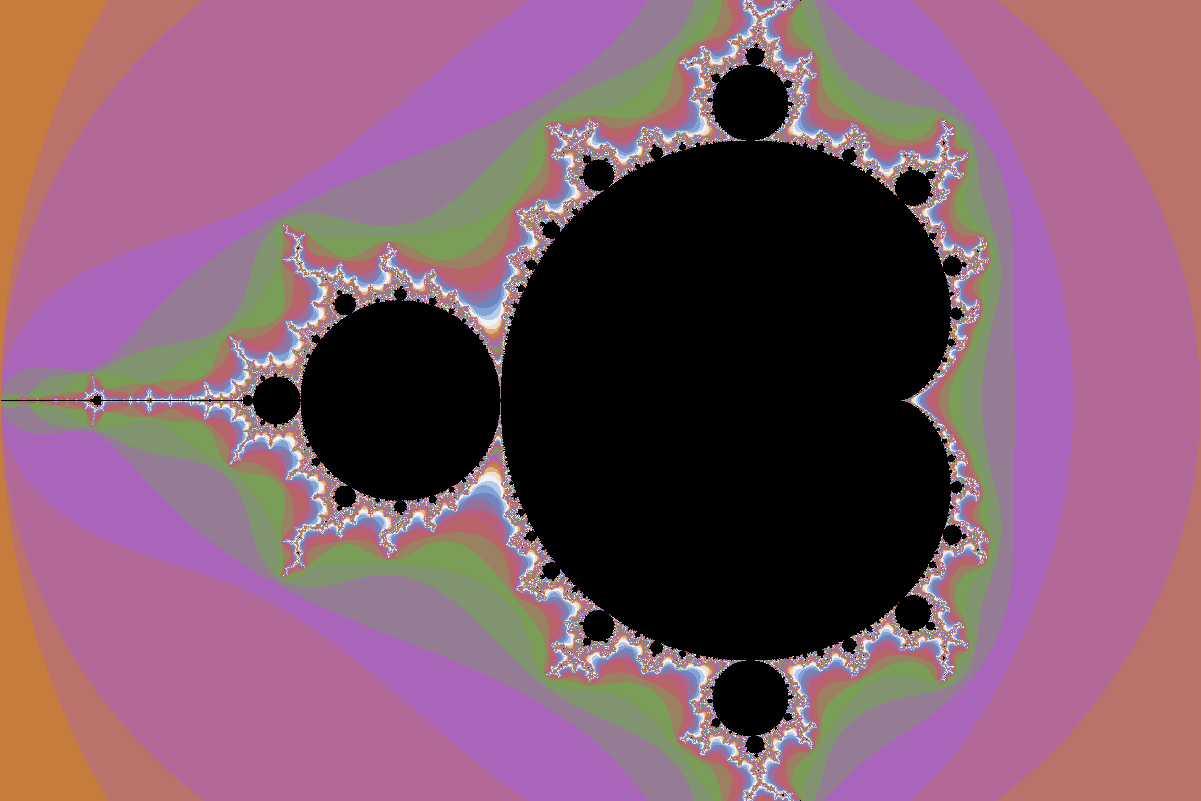
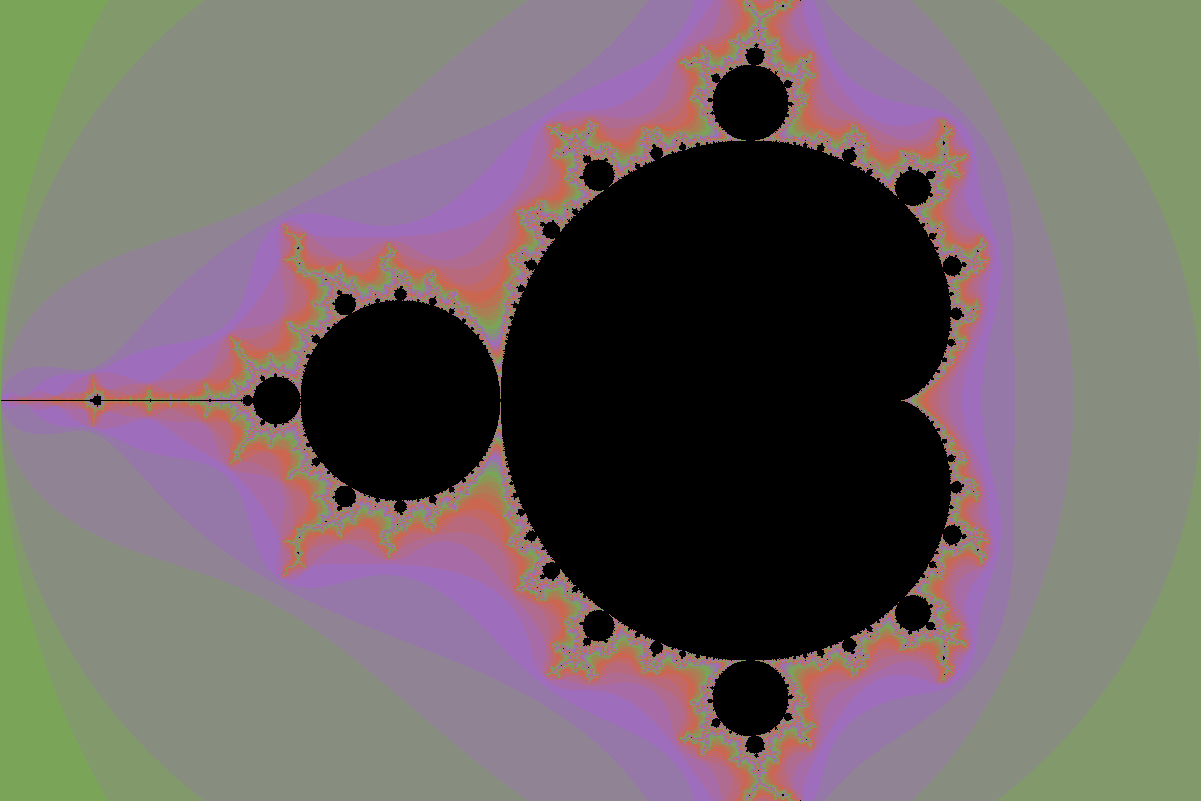
04

diff --git a/04/work/mandelbrot.py b/04/work/mandelbrot.py
@@ -1,0 +1,100 @@
+# mandelbrot set image generator
+# 
+# cameron f abrams 2018
+# cfa22@drexel.edu
+#
+from PIL import Image, ImageDraw, ImageFont
+from math import log
+import sys
+
+EPSILON = sys.float_info.epsilon  # smallest possible difference
+def convert_to_rgb_cyclic ( minval, maxval, val, colors ):
+    fi = float(val-minval) / float(maxval-minval) * (len(colors)+1)
+    i = int(fi)
+    f = fi - i
+    if f < EPSILON:
+        return colors[i%len(colors)]
+    else:
+        (r1, g1, b1), (r2, g2, b2) = colors[i%len(colors)], colors[(i+1)%len(colors)]
+        return int(r1 + f*(r2-r1)), int(g1 + f*(g2-g1)), int(b1 + f*(b2-b1))
+
+
+def c2i ( pt, cll, cur, Lx, Ly ):
+   rx = float(pt[0]-cll[0]) / float(cur[0]-cll[0])
+   ix = int(rx*Lx)
+   ry = float(cur[1]-pt[1]) / float(cur[1]-cll[1])
+   iy = int(ry*Ly)
+   return ix, iy
+
+npr = 1201
+npi = 801
+#npr = 301
+#npi = 201
+
+zll=(-2,-1)
+zur=(1,1)
+
+#zll=(-0.875,0)
+#zur=(-0.5,0.25)
+
+#zll=(-0.875,0.21875)
+#zur=(-0.828125,0.25)
+
+c1=(122,164,87)
+c2=(158,110,189)
+c3=(203,103,81)
+c1=(197,124,60)
+c2=(171,98,192)
+c3=(114,165,85)
+c4=(202,86,112)
+c5=(99,140,204)
+w=(255,255,255)
+b=(0,0,0)
+colors = [c1,c2,c3,c4,c5,w] 
+
+im = Image.new('RGB',(npr,npi))
+print im.mode, im.size, im.format
+draw = ImageDraw.Draw(im)
+drawgrid = 0
+ngx = 9
+ngy = 9
+fnt = ImageFont.truetype('/usr/share/fonts/truetype/OpenSans-Regular.ttf',12)
+
+dr = float(zur[0]-zll[0])/(npr-1)
+di = float(zur[1]-zll[1])/(npi-1)
+print dr, di
+
+iterlim = 1000
+
+for i in range(npr):
+   for j in range(npi):
+     z = complex(zll[0]+i*dr,zll[1]+j*di)
+     c = z
+     niter = 0
+     while abs(z) < 2 and niter < iterlim :
+       z = pow(z,2) + c
+       niter = niter + 1
+     if niter == iterlim:
+       im.putpixel((i,npi-j-1),b)
+     else:
+       #log_zn=log ( z.real*z.real+z.imag*z.imag ) / 2
+       #nu = log ( log_zn / log(2) ) / log(2)
+       #niter = niter + 1 - nu
+       #im.putpixel((i,npi-j-1),convert_to_rgb_cyclic(0,1.0,niter%1,colors))
+       im.putpixel((i,npi-j-1),convert_to_rgb_cyclic(0,iterlim/50,niter,colors))
+
+if drawgrid :
+  gdx = float(zur[0]-zll[0])/(ngx-1)
+  gdy = float(zur[1]-zll[1])/(ngy-1)
+  for gx in range(ngx):
+    draw.line(c2i((zll[0]+gx*gdx,zll[1]),zll,zur,npr,npi) + c2i((zll[0]+gx*gdx,zur[1]),zll,zur,npr,npi), fill=w)
+    tic = "{0:.12f}".format(zll[0]+gx*gdx)
+    plc = c2i((zll[0]+gx*gdx,zll[1]),zll,zur,npr,npi-20)
+    draw.text(plc,tic,font=fnt,fill=w)
+  for gy in range(ngy):
+    tic = "{0:.12f}".format(zll[1]+gy*gdy)
+    draw.line(c2i((zll[0],zll[1]+gy*gdy),zll,zur,npr,npi) + c2i((zur[0],zll[1]+gy*gdy),zll,zur,npr,npi), fill=w)
+    draw.text(c2i((zll[0],zll[1]+gy*gdy),zll,zur,npr,npi),tic,font=fnt,fill=w)
+
+im.save('tmp.png')
+

diff --git a/04/work/mandelbrot1.py b/04/work/mandelbrot1.py
@@ -1,0 +1,80 @@
+# mandelbrot set image generator
+# 
+# cameron f abrams 2018
+# cfa22@drexel.edu
+#
+from PIL import Image
+import sys
+
+EPSILON = sys.float_info.epsilon  # smallest possible difference
+# desired image dimensions in pixels; "r" real, "i" imaginary
+def convert_to_rgb_cyclic ( minval, maxval, val, colors ):
+    fi = float(val-minval) / float(maxval-minval) * (len(colors)+1)
+    i = int(fi)
+    f = fi - i
+    if f < EPSILON:
+        return colors[i%len(colors)]
+    else:
+        (r1, g1, b1), (r2, g2, b2) = colors[i%len(colors)], colors[(i+1)%len(colors)]
+        return int(r1 + f*(r2-r1)), int(g1 + f*(g2-g1)), int(b1 + f*(b2-b1))
+
+npr = 1201
+npi = int((npr-1)/3.0*2.0) + 1
+
+# lower-left and upper-right coordinates of image field
+zll=(-2,-1)
+zur=(1,1)
+
+# a nice palette from iwanthue.com
+c1=(122,164,87)
+c2=(158,110,189)
+c3=(203,103,81)
+colors = [c1,c2,c3] 
+# white, black
+w=(255,255,255)
+b=(0,0,0)
+
+# create a new image
+im = Image.new('RGB',(npr,npi))
+print im.mode, im.size, im.format
+
+# pixel dimensions
+dr = float(zur[0]-zll[0])/(npr-1)
+di = float(zur[1]-zll[1])/(npi-1)
+print dr, di
+
+# iteration limit
+iterlim = 1000
+
+# loop over each pixel
+for i in range(npr):
+   for j in range(npi):
+     # construct the complex number at this point
+     z = complex(zll[0]+i*dr,zll[1]+j*di)
+     # check for boundedness of f(z)=z^2+c
+     c = z
+     niter = 0
+     while abs(z) < 2 and niter < iterlim :
+       z = pow(z,2)+c
+       niter = niter + 1
+     if niter == iterlim:
+       im.putpixel((i,npi-j-1),b)
+     else:
+       im.putpixel((i,npi-j-1),convert_to_rgb_cyclic(0,iterlim/50,niter,colors))
+
+drawgrid = 0
+if drawgrid :
+  gdx = float(zur[0]-zll[0])/(ngx-1)
+  gdy = float(zur[1]-zll[1])/(ngy-1)
+  for gx in range(ngx):
+    draw.line(c2i((zll[0]+gx*gdx,zll[1]),zll,zur,npr,npi) + c2i((zll[0]+gx*gdx,zur[1]),zll,zur,npr,npi), fill=w)
+    tic = "{0:.12f}".format(zll[0]+gx*gdx)
+    plc = c2i((zll[0]+gx*gdx,zll[1]),zll,zur,npr,npi-20)
+    draw.text(plc,tic,font=fnt,fill=w)
+  for gy in range(ngy):
+    tic = "{0:.12f}".format(zll[1]+gy*gdy)
+    draw.line(c2i((zll[0],zll[1]+gy*gdy),zll,zur,npr,npi) + c2i((zur[0],zll[1]+gy*gdy),zll,zur,npr,npi), fill=w)
+    draw.text(c2i((zll[0],zll[1]+gy*gdy),zll,zur,npr,npi),tic,font=fnt,fill=w)
+
+im.save('tmp.png')
+

diff --git a/04/seed.py b/04/seed.py
@@ -11,12 +11,16 @@ W = int(H/2.0*3.0)
 zll=complex(-2,-1)
 zur=complex(1,1)
 
-# pixel dimensions
+# resulting pixel dimensions
 dr = float(zur.real - zll.real)/(W-1)
 di = float(zur.imag - zll.imag)/(H-1)
 
 # loop over each pixel
 for i in range(W):
    for j in range(H):
+       # note that the image vertical goes "down" from the upper left
+       # corner of the image, so the imaginary component 
+       # is measured in the negative direction from the the imaginary
+       # coordinate of the top of the image
        print i,j,i*dr+zll.real,zur.imag-j*di
-       # code here to construct a complex number and square it
+       # Insert code here to construct a complex number, square it, and compute its absolute value

diff --git a/04/part1.py b/04/part1.py
@@ -20,4 +20,4 @@ for i in range(W):
    for j in range(H):
      # construct the complex number at this point
      z = complex(zll.real+i*dr,zur.imag-j*di)
-     print z,pow(z,2)
+     print z,pow(z,2),abs(z)

diff --git a/04/README.md b/04/README.md
@@ -18,13 +18,15 @@ thought of as a vector from the origin to the point ![](.README-images/xy.png):
 
 ![](.README-images/complex-plane-fig.png)
 
-_Squaring_ a complex number means multiplying it by itself:
+Also shown in this figure is the "complex conjugate" ![](complexconjugate.png).  _Squaring_ a complex number means multiplying it by itself:
 
 ![](.README-images/complex-square.png)
 
-Our goal in this assignment is not to become experts in complex variables, but instead to explore one of their more famous representations and learn a little more Python programming.   
+and the magnitude (or absolute value) of a complex number is the square root of the product of the number and its complex conjugate:
 
-The thing we will examine here is a particular curve that lives in the complex plane.  This curve is special because it marks the boundary enclosing a special set of complex numbers called the Mandelbrot set, after the mathematician Benoit Mandelbrot.  A complex number ![](.README-images/c.png), is in the Mandelbrot set if the sequence ![](.README-images/mand_seq.png) does not "blow up" (i.e., approach infinity), where
+![](.README-images/absolutevalue.png).
+
+Our goal in this assignment is not to become experts in complex variables, but instead to explore one of their more famous representations and learn a little more Python programming. The thing we will examine here is a particular curve that lives in the complex plane.  This curve is special because it marks the boundary enclosing a special set of complex numbers called the Mandelbrot set, after the mathematician Benoit Mandelbrot.  A complex number ![](.README-images/c.png) is in the Mandelbrot set if the sequence ![](.README-images/mand_seq.png) does not "blow up" (i.e., approach infinity), where
 
 ![](.README-images/mand_f.png).
 
@@ -40,10 +42,21 @@ This exercise demonstrates several concepts:
 
 ## The Assignment
 
-1.  Write a python program that loops over a field of pixels of with W and height H that corresponds to a region in the complex plane with the point (-2,-1) at the lower-left and the point (1,1) at the upper right.  That is, the width of the region is 3 units in W pixels, and the height is 2 units in H pixels; in order to keep the two axes at the same scale, let W = (3/2)H.  At each point, construct a complex number and print out its square.
-(Note that python uses `j` to refer to ![](.README-images/i.png).)  Use the program `seed.py` provided here, which implements a loop over all WxH pixels.
+1.  Write a python program that loops over a field of pixels of with W and height H (such that W = (3/2)H) that corresponds to a region in the complex plane with the point (-2,-1) at the lower-left and the point (1,1) at the upper right.  At each pixel, determine the real and imaginary components of the complex number at that location, and print the number, its square, and its absolute value. (Note that python uses `j` to refer to ![](.README-images/i.png).)  Use the program `seed.py` provided here, which implements a loop over all WxH pixels.  The first few lines of this output looks like this
+```
+(-2+1j) (3-4j) 2.2360679775
+(-2+0.996661101836j) (3.00666664809-3.98664440735j) 2.23457677244
+(-2+0.993322203673j) (3.01331099969-3.97328881469j) 2.23308956388
+(-2+0.989983305509j) (3.01993305481-3.95993322204j) 2.23160635982
+(-2+0.986644407346j) (3.02653281345-3.94657762938j) 2.23012716825
+(-2+0.983305509182j) (3.03311027561-3.93322203673j) 2.22865199715
+(-2+0.979966611018j) (3.03966544129-3.91986644407j) 2.22718085451
+(-2+0.976627712855j) (3.04619831048-3.90651085142j) 2.22571374833
+(-2+0.973288814691j) (3.0527088832-3.89315525876j) 2.22425068659
+(-2+0.969949916528j) (3.05919715943-3.87979966611j) 2.22279167728
+```
 
-2. Write a function that accepts a single complex number and returns the number of iterations of the function above before the magnitude of the results exceeds 2.  Call this function for each point you visit in Part 1.
+2. Write a function that accepts a single complex number and returns the number of iterations of the function above before the magnitude of the results exceeds 2.  Call this function for each point you visit in Part 1 and report the result for each point.
 
 3. Import the `Image` module from the `PIL` (python image library), and create an 'RGB'-mode image of WxH pixels.  At each pixel in the loop, use the `putpixel` function to color the pixel black if the point is in the set and white otherwise.  After the loop, save the image in 'my_bw.png'.
 
